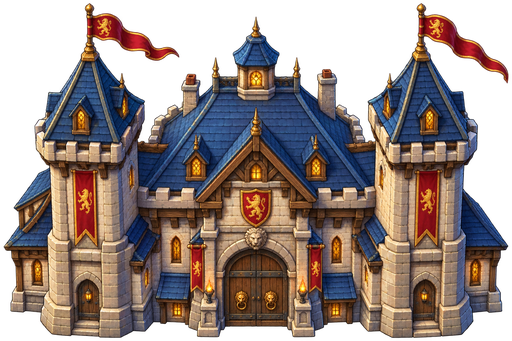
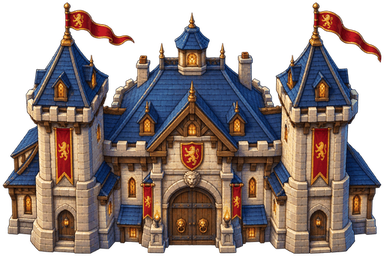
Painted artwork for every structure and prop, switchable at runtime
23 GPT Image 2 assets — 15 structures and 8 world props — generated through the
Codex CLI against the briefs in tools/art-briefs.json, keyed to transparency and
anchored so the subject is centred with its base on the bottom edge of the frame.

The procedural sprites remain the default fallback and both sets stay resident,
so the artwork switches instantly: V in game, the palette button, or the
Painted/Vector control on the menu. The toggle hides itself when no generated
art is present.

Three fixes this needed:

- Sprites baked before the manifest finished loading cached a permanent "no PNG"
  miss, so painted buildings would never have appeared. The lookup is now made
  fresh on each draw.
- Tall portrait assets scaled by width alone came out four times their footprint
  tall — the guard tower loomed over the town hall and hid the units behind it.
  fitOverride now takes a height cap and scales the sprite down as a whole.
- Assets were oversampled at 512px when nothing draws wider than ~343px even at
  maximum zoom; resampling to 384px cut the download from 6.5 MB to 4.1 MB.

Claude-Session: https://claude.ai/code/session_016e7zj2dz45KxLRt33HB3YN

diff --git a/src/engine/renderer.js b/src/engine/renderer.js
@@ -242,7 +242,7 @@ export class Renderer {
       const fp = e.size * TILE;
       this.drawShadow(ctx, e.x, e.y + 8, fp * 0.5, fp * 0.2, 0.4);
       if (sp.override) {
-        const f = fitOverride(sp.override, e.x, e.y + fp * 0.34, fp * 1.62);
+        const f = fitOverride(sp.override, e.x, e.y + fp * 0.34, fp * 1.62, fp * 2.0);
         ctx.drawImage(sp.override, f.x, f.y, f.w, f.h);
       } else {
         ctx.drawImage(sp.canvas, e.x - sp.ax, e.y - sp.ay + 6);
@@ -260,7 +260,7 @@ export class Renderer {
     ctx.translate(e.x, e.y + 4);
     ctx.scale(shrink, shrink);
     if (sp.override) {
-      const f = fitOverride(sp.override, 0, 0, 52);
+      const f = fitOverride(sp.override, 0, 0, 52, 76);
       ctx.drawImage(sp.override, f.x, f.y, f.w, f.h);
     } else {
       ctx.drawImage(sp.canvas, -sp.ax, -sp.ay);
@@ -277,7 +277,9 @@ export class Renderer {
     ctx.save();
     if (e.hitFlash > 0) { ctx.filter = 'brightness(1.7) saturate(0.6)'; }
     if (e.complete && sp.override) {
-      const f = fitOverride(sp.override, e.x, e.y + fp * 0.42, fp * 1.62);
+      // Cap the height at 2.3x the footprint so tall towers stay readable and
+      // do not hide what is behind them.
+      const f = fitOverride(sp.override, e.x, e.y + fp * 0.42, fp * 1.62, fp * 2.3);
       ctx.drawImage(sp.override, f.x, f.y, f.w, f.h);
     } else {
       const img = e.complete ? sp.done : sp.stages[clamp(Math.floor(e.progress * 4), 0, 3)];

diff --git a/src/art/assets.js b/src/art/assets.js
@@ -200,10 +200,21 @@ export function getProp(key) {
  * Generated art follows one convention: the subject fills the frame
  * horizontally and its base rests on the bottom edge. Given a desired ground
  * width, this returns where to blit it so it lands on the ground anchor.
+ *
+ * `maxHeight` matters for tall, narrow subjects. A guard tower comes back as a
+ * portrait image; scaling it by width alone makes it four times its footprint
+ * tall, so it looms over the town hall and covers the units behind it. When the
+ * cap bites, the sprite is scaled down as a whole and stays centred on its
+ * footprint.
  */
-export function fitOverride(img, groundX, groundY, targetWidth) {
-  const dw = targetWidth;
-  const dh = dw * (img.height / img.width);
+export function fitOverride(img, groundX, groundY, targetWidth, maxHeight = Infinity) {
+  let dw = targetWidth;
+  let dh = dw * (img.height / img.width);
+  if (dh > maxHeight) {
+    const k = maxHeight / dh;
+    dh = maxHeight;
+    dw *= k;
+  }
   return { x: groundX - dw / 2, y: groundY - dh, w: dw, h: dh };
 }
 

diff --git a/README.md b/README.md
@@ -75,7 +75,9 @@ drift apart. The game ships complete with no image files at all.
 
 **Generated art is an optional override layer.** At boot the game fetches
 `assets/manifest.json`; any PNG listed there replaces the matching baked sprite.
-A missing manifest is a silent no-op, so this step is never required.
+A missing manifest is a silent no-op, so this step is never required. The 23
+structures and props in `assets/` were generated with GPT Image 2 through the
+Codex CLI; units stay procedural.
 
 Both sets live in memory at once, so you can **flip between them live**: press
 **V** in game, use the 🎨 button, or pick *Painted* / *Vector* on the menu. The
